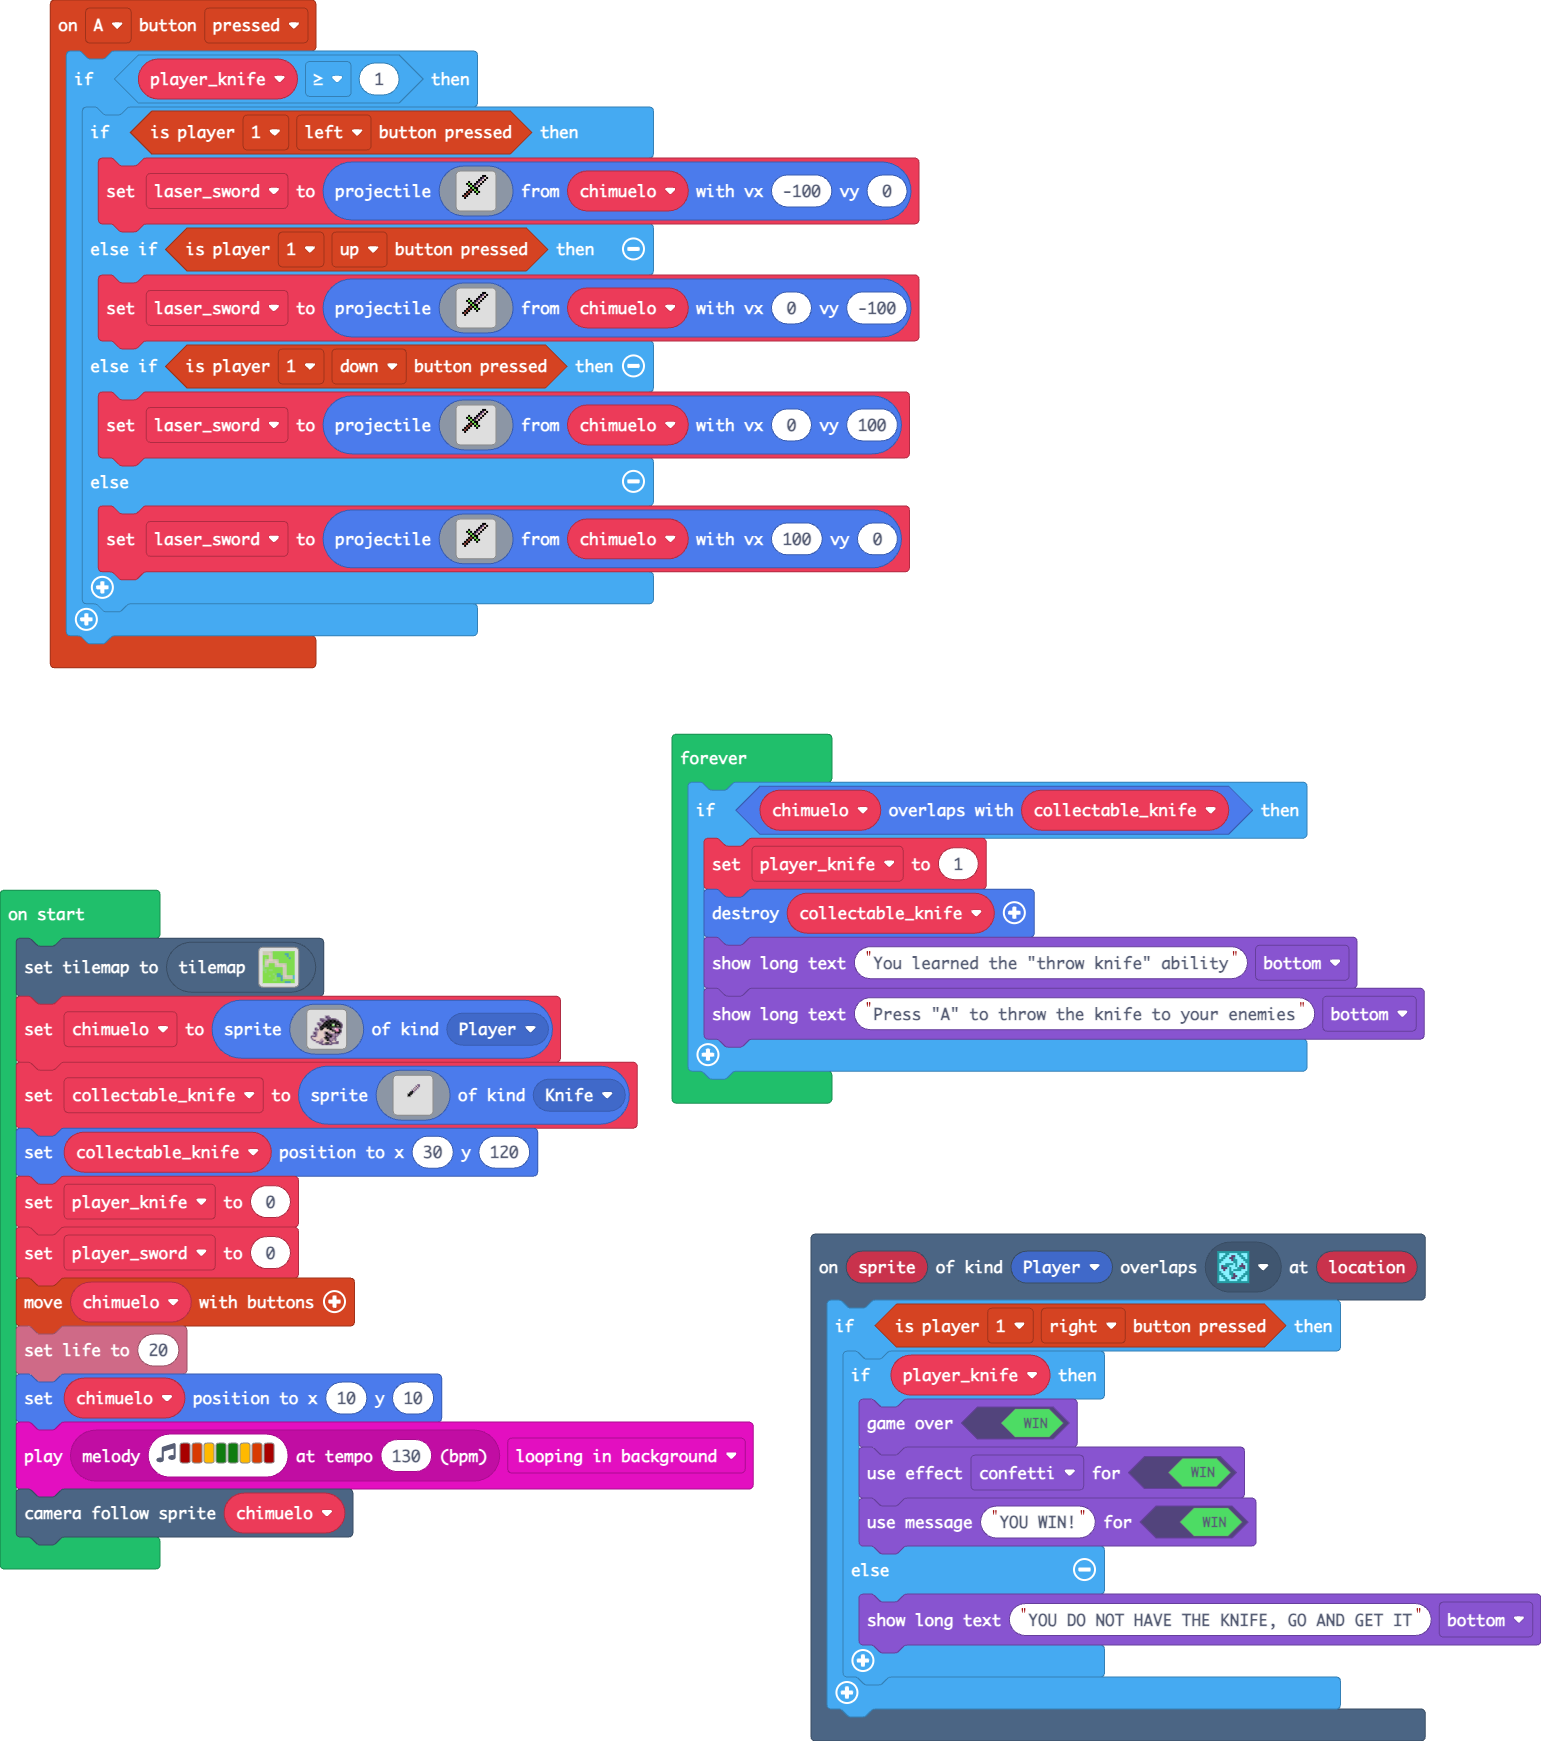
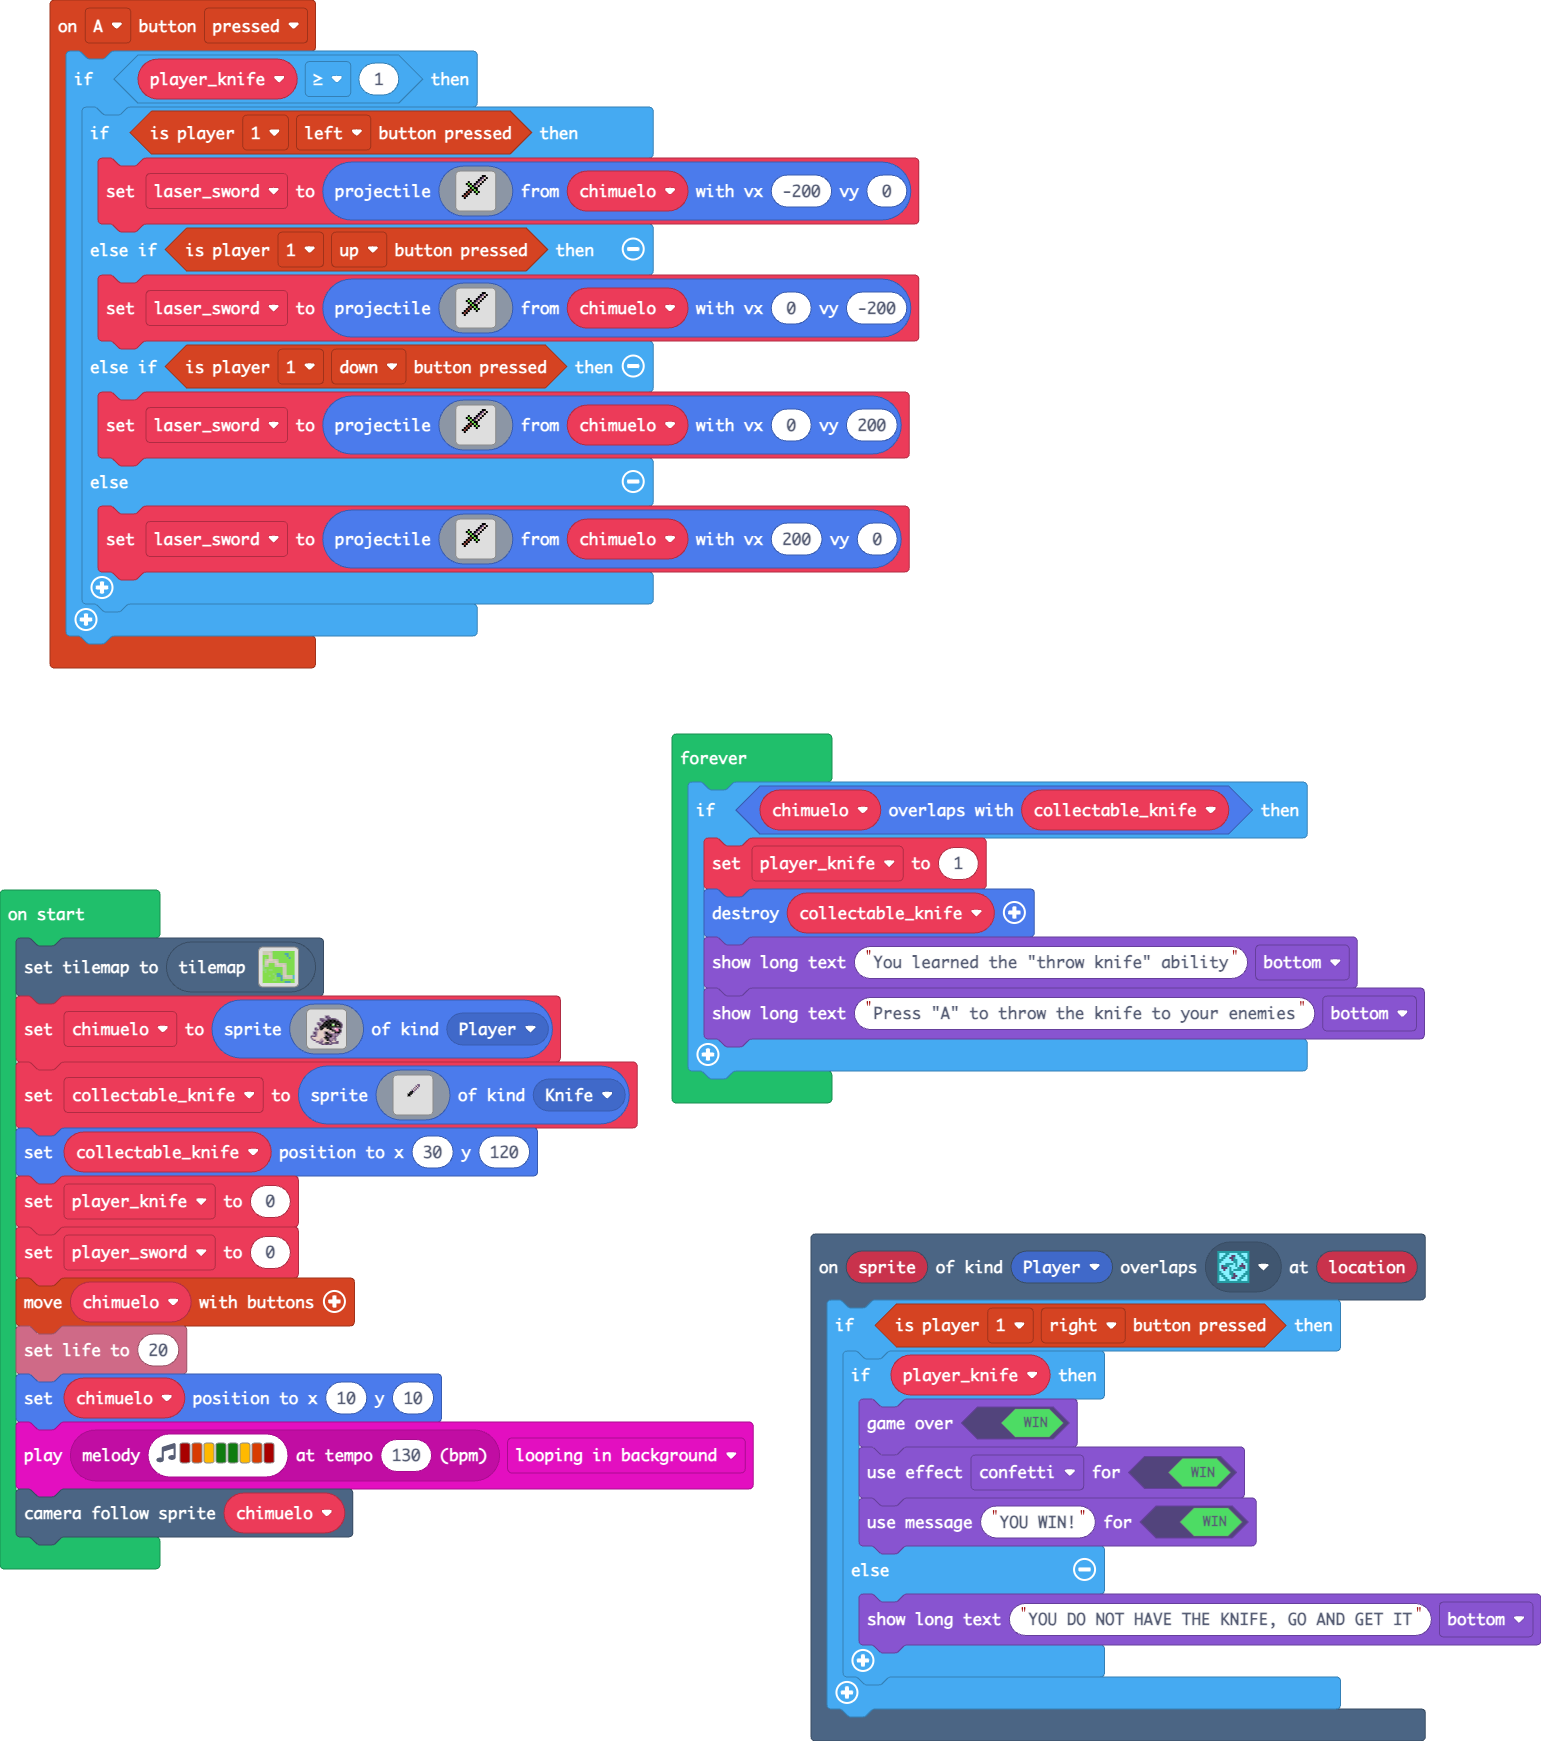
Actualizacion de velocidad de tiro de cuchillo

diff --git a/main.ts b/main.ts
@@ -23,7 +23,7 @@ controller.A.onEvent(ControllerButtonEvent.Pressed, function () {
                 . . . . . . . . . . . . . . . . 
                 . . . . . . . . . . . . . . . . 
                 . . . . . . . . . . . . . . . . 
-                `, chimuelo, -100, 0)
+                `, chimuelo, -200, 0)
         } else if (controller.player1.isPressed(ControllerButton.Up)) {
             laser_sword = sprites.createProjectileFromSprite(img`
                 . . . . . . . . . . . f f . . . 
@@ -42,7 +42,7 @@ controller.A.onEvent(ControllerButtonEvent.Pressed, function () {
                 . . . . . . . . . . . . . . . . 
                 . . . . . . . . . . . . . . . . 
                 . . . . . . . . . . . . . . . . 
-                `, chimuelo, 0, -100)
+                `, chimuelo, 0, -200)
         } else if (controller.player1.isPressed(ControllerButton.Down)) {
             laser_sword = sprites.createProjectileFromSprite(img`
                 . . . . . . . . . . . f f . . . 
@@ -61,7 +61,7 @@ controller.A.onEvent(ControllerButtonEvent.Pressed, function () {
                 . . . . . . . . . . . . . . . . 
                 . . . . . . . . . . . . . . . . 
                 . . . . . . . . . . . . . . . . 
-                `, chimuelo, 0, 100)
+                `, chimuelo, 0, 200)
         } else {
             laser_sword = sprites.createProjectileFromSprite(img`
                 . . . . . . . . . . . f f . . . 
@@ -80,7 +80,7 @@ controller.A.onEvent(ControllerButtonEvent.Pressed, function () {
                 . . . . . . . . . . . . . . . . 
                 . . . . . . . . . . . . . . . . 
                 . . . . . . . . . . . . . . . . 
-                `, chimuelo, 100, 0)
+                `, chimuelo, 200, 0)
         }
     }
 })
